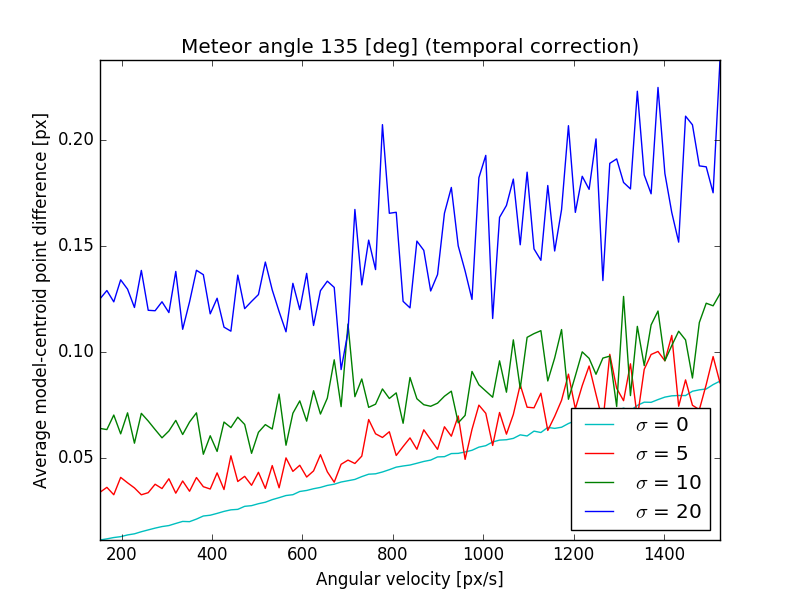
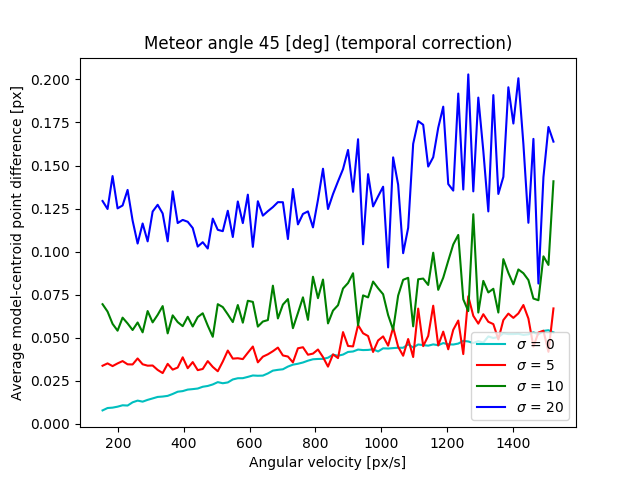
temporal ODN simulation with decelerating meteors done

Changed region(s): [[0.0, 0.0625, 0.9062, 1.0]]

diff --git a/Source/ODN-Rv_corrSim.py b/Source/ODN-Rv_corrSim.py
@@ -29,12 +29,18 @@ for noise in par.noise_scale_arr:
 		# Average of averages array
 		diff_arr = []
 
+		t_meteor = st.timeFromAngle(par.phi, omega_iter, par.img_x, par.img_y, par.scale, par.fps)
+
+		# Get deceleration parameters
+		dec_arr = [1, st.getparam(1, omega_iter, omega_iter*0.9, t_meteor)]
+		print('Deceleration parameters: ', dec_arr)
+
 		# Get average model - centroid point difference for each meteor
 		for i in range(n_iter):
 
 			# Get model and centroid coordinates
 			time_coordinates, centroid_coordinates, model_coordinates = st.pointsCentroidAndModel(rolling_shutter, par.t_meteor, par.phi, \
-            	omega_iter, par.img_x, par.img_y, par.scale, par.fps, par.sigma_x, par.sigma_y, noise, par.offset, par.fit_param, show_plots)
+            	omega_iter, par.img_x, par.img_y, par.scale, par.fps, par.sigma_x, par.sigma_y, noise, par.offset, dec_arr, show_plots)
 
 			# print(centroid_coordinates)
 

diff --git a/Source/DecelerationPlot.py b/Source/DecelerationPlot.py
@@ -3,15 +3,15 @@ import Parameters as par
 import numpy as np 
 import matplotlib.pyplot as plt
 
+omega_start = 50
 
 start = 0
-fin = 11
-step = 1
+fin = omega_start*0.11
+step = omega_start*0.01
 delta_omega = np.arange(start, fin, step)
 
 
 a = 1
-omega_start = 20
 b_arr = []
 
 fin_t = 0.5
@@ -38,12 +38,12 @@ for i in range(len(delta_omega)):
 
 for i in range(len(delta_omega)):
 
-	plt.plot(time_arr, omega_arr[i], label = r'$\Delta \omega = {}$ [deg/s]'.format(delta_omega[i]))
+	plt.plot(time_arr, omega_arr[i], label = r'$\Delta \omega = {:.0f}$ %'.format(100*delta_omega[i]/omega_start))
 
 
 plt.title('Meteor deceleration')
 plt.xlabel('Time [s]')
-plt.ylabel('Angular velocity [deg/s]')
+plt.ylabel('Velocity [px/s]')
 plt.legend(loc = 'best')
 
 plt.savefig('../Figures/Images/deceleration/dec_rep.png')

diff --git a/Source/ODN-Rtemp_corrSim.py b/Source/ODN-Rtemp_corrSim.py
@@ -12,7 +12,6 @@ import numpy as np
 show_plots = False
 
 # Initial meteor parameters
-dec_arr = [0, 0]
 time_mark = 'beginning'
 
 # Image center (required for executing the drawPoints function)
@@ -38,6 +37,10 @@ for noise in par.noise_scale_arr:
 		# Get duration of meteor (the meteor is crossing the entire image)
 		print('Getting time from angle...')
 		t_meteor = st.timeFromAngle	(phi, omega, par.img_x, par.img_y, par.scale, par.fps)
+
+		# Find the deceleration parameters
+		dec_arr = [1, st.getparam(1, omega, 0.9*omega, t_meteor)]
+		print('Deceleration parameters: ', dec_arr)
 
 		# Get time and centroid coordinates from rolling shutter
 		print('Simulating rolling shutter meteor...')

diff --git a/Source/SimulationTools.py b/Source/SimulationTools.py
@@ -637,7 +637,8 @@ def coordinateCorrection(time_coordinates, centroid_coordinates, img_y, fps, ver
 
     for i in range(num_coord):
         ind_coord = (x_coordinates[i], y_coordinates[i])
-        r_coordinates.append(centroidDifference(start_coord, ind_coord))
+        r = centroidDifference(start_coord, ind_coord)
+        r_coordinates.append(r)
 
     # Linear fit function
     def linFit(r, phi, b):

diff --git a/Source/DecelerationCheck.py b/Source/DecelerationCheck.py
@@ -14,14 +14,14 @@ noise = 0
 time_mark = 'beginning'
 
 # Initial parameters of the meteor
-omega = 10
+omega = 50
 phi = 50
 t_meteor = 0.5
 
 # Deceleration parameters of the meteor
 a = 1
 v_start = omega
-v_finish = omega/5
+v_finish = omega*0.1
 
 # Form deceleration parameters array
 dec_arr = [a, st.getparam(a, v_start, v_finish, t_meteor)]

diff --git a/Source/Parameters.py b/Source/Parameters.py
@@ -12,7 +12,7 @@ rolling_shutter = True
 t_meteor = 0.5
 
 # Meteor angle counterclockwise from the Y axis (deg)
-phi = 135
+phi = 45
 
 # Meteor angle array
 phi_array = np.arange(0, 361)
